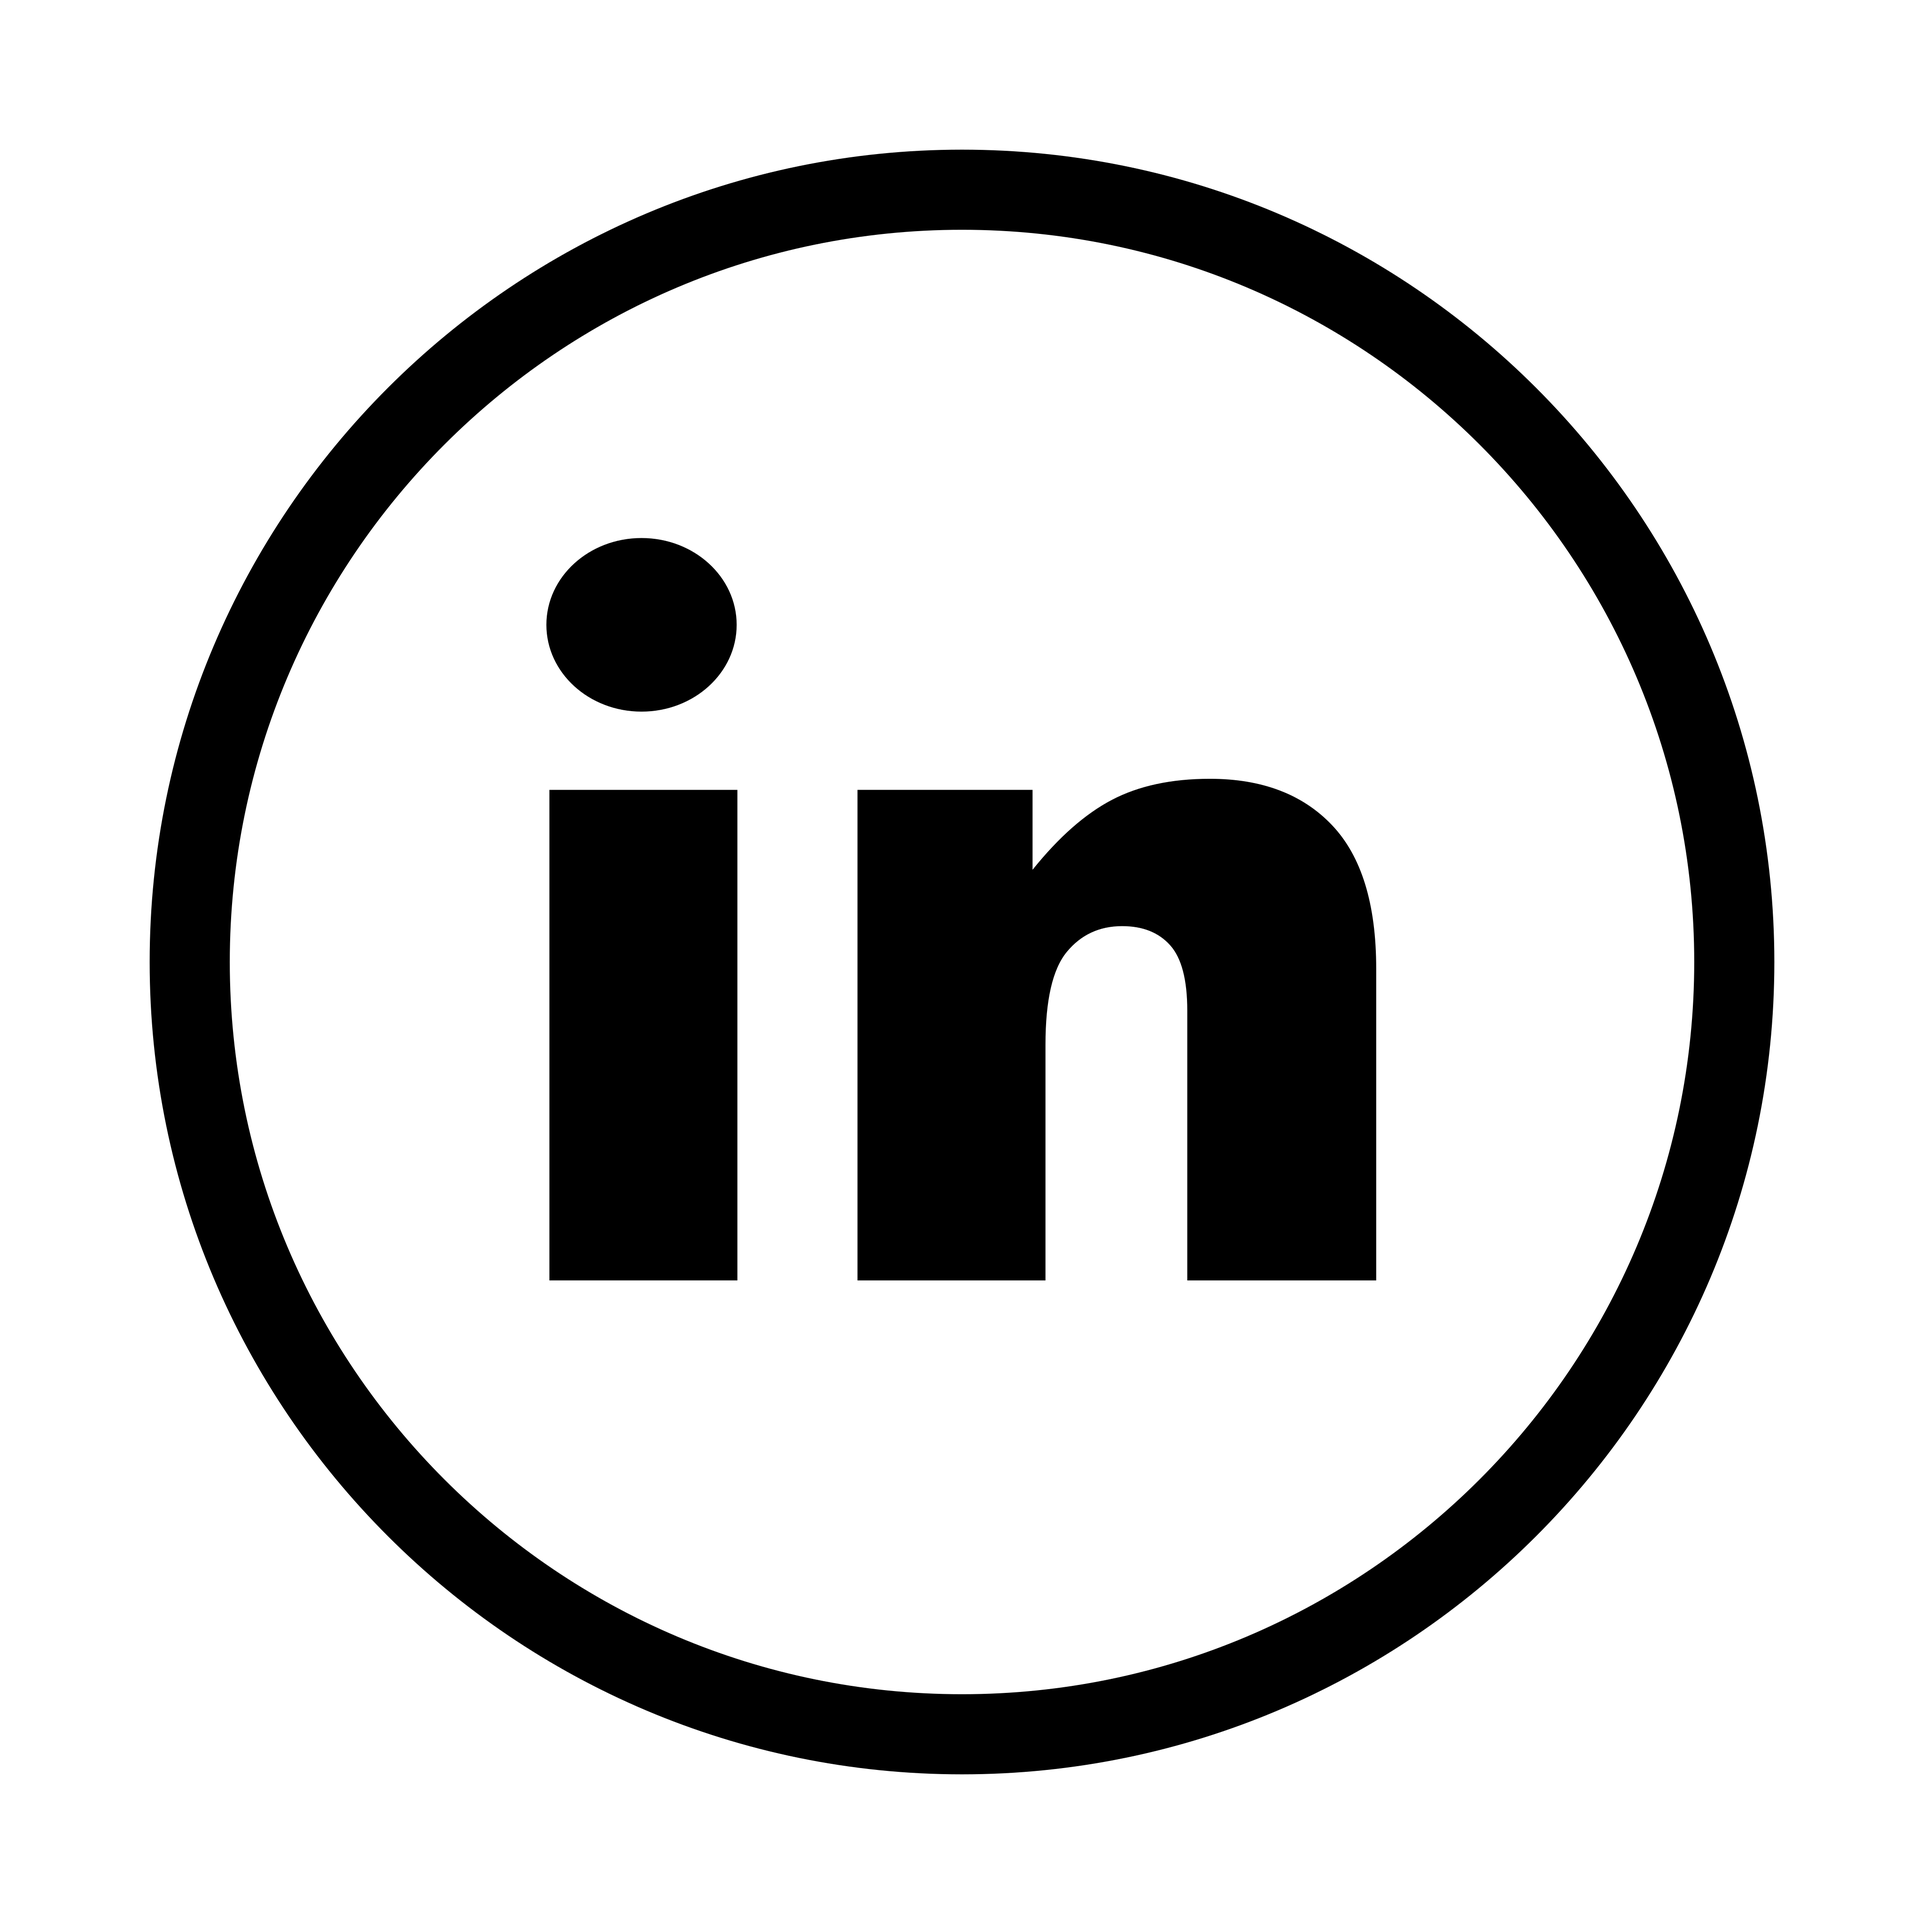
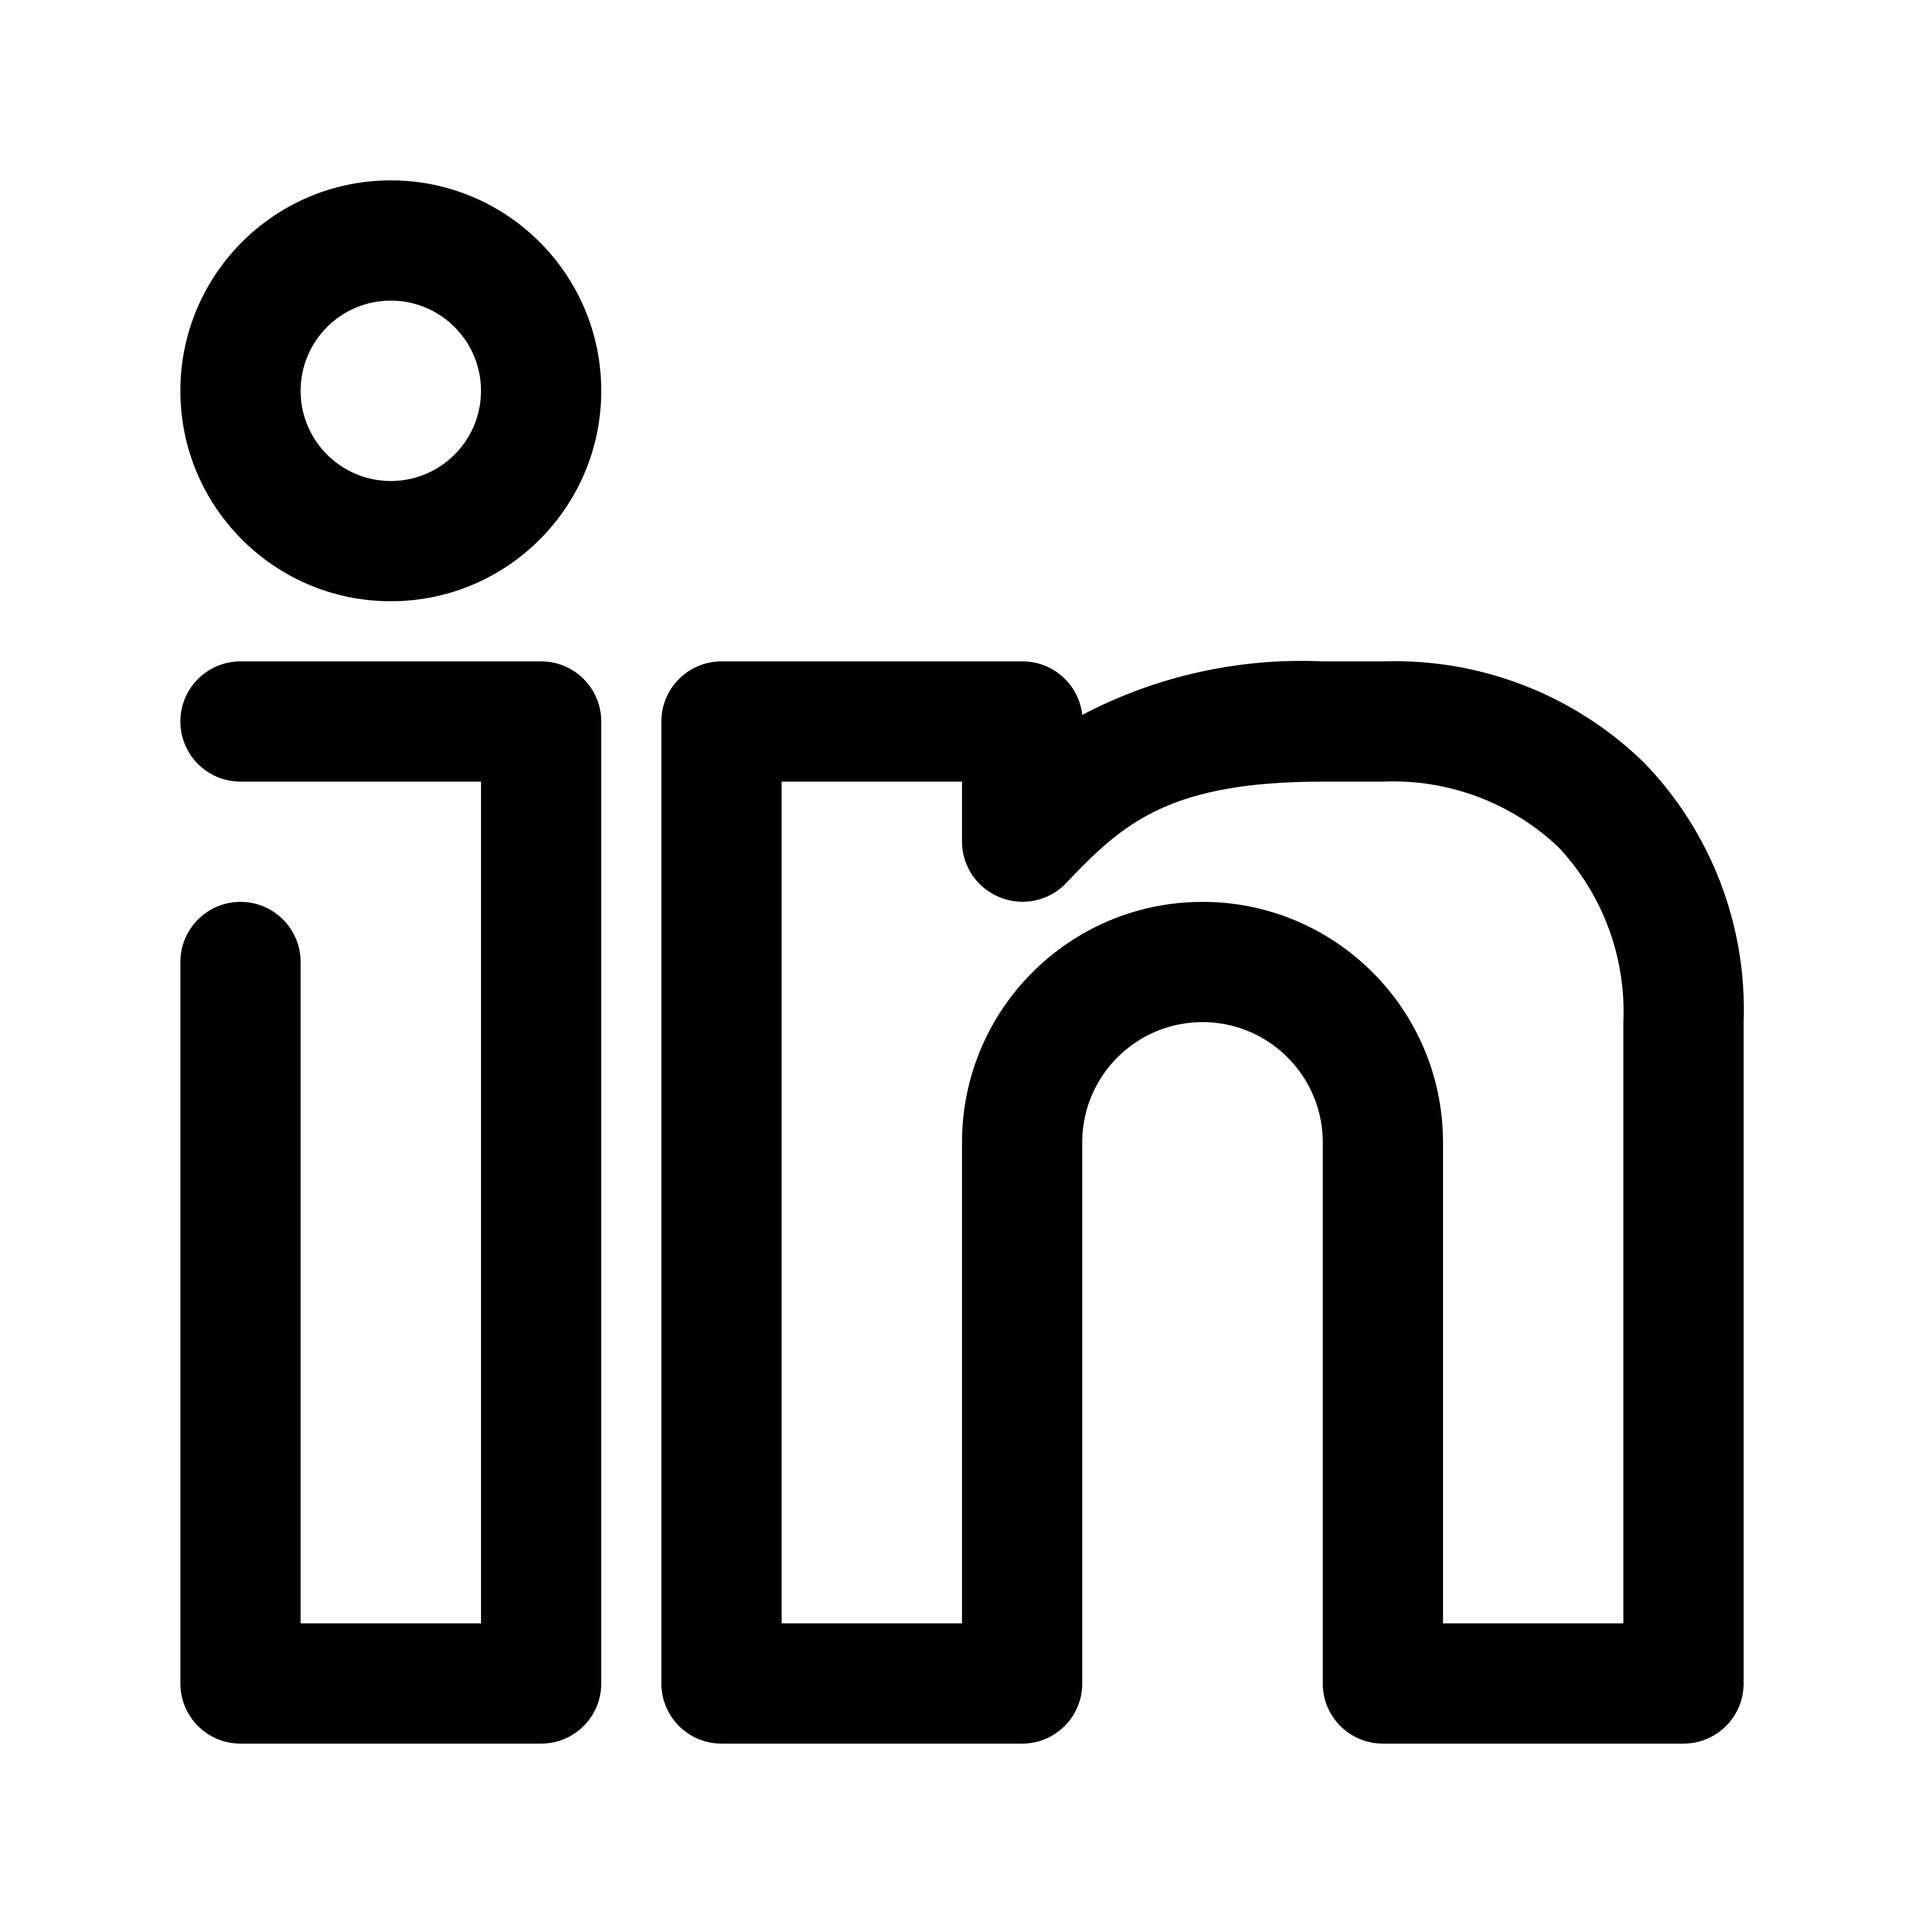
added media query for larger screen display. Updated social assets. Cleaned up CSS classes.

diff --git a/portfolio.html b/portfolio.html
@@ -33,11 +33,12 @@
 			 I'm a climber, gardener, mountain biker, and scuba diver in my free time. I recently hiked the three peaks and am mid-way through landscaping my garden.
 		 </p>
 	 </section>
-	 <section class="container">
+	 <section>
 			 <h2 id="Projects" class="heading">
 				 Projects
 			 </h2>
-		 <div class="projects-container">
+			 <div class="projects-container">
+		 <div class="projects-card-container">
 			 <a href="https://codepen.io/SamBellDev/full/BajKVJK" target="_blank" rel="noopener noreferrer">
 			 <h3 class="heading">
 				 Ghost Fishing UK charity page
@@ -49,7 +50,7 @@
 					 I made the Ghost Fishing UK page to build my HTML and CSS skills whilst raising awareness for a charity I'm involved with. Ghost Fishing UK are a dedicated team of divers who commit their free time to cleaning the ocean. They are both educational and practical; the team conducts seminars to spread information about ghost fishing gear whilst also leading dives to remove ghost fishing gear in a safe and sustainable way.
 			 </p>
 		 </div>
-		 <div class="projects-container">
+		 <div class="projects-card-container">
 			 <a href="https://codepen.io/SamBellDev/full/oNbxypV" target="_blank" rel="noopener noreferrer">
 			 <h3 class="heading">
 				 ACME Labs feedback form
@@ -60,6 +61,7 @@
 				 As part of the freeCodeCamp curriculum I attempted to build a form which contained multiple input types. It was good fun but didn't include any back-end functionality.
 			 </p>
 		 </div>
+	 </div>
 	 </section>
  </main>	 
 	 <footer id="Contact me">

diff --git a/portfolio.css b/portfolio.css
@@ -40,7 +40,7 @@ header {
 	justify-content: space-around;
 }
 
-.title-container, .projects-container {
+.title-container, .projects-card-container {
 	display:flex;
 	flex-flow: column nowrap;
 	align-items: center;
@@ -60,6 +60,21 @@ header {
 }
 
 footer img {
-	width: 80px;
-	height : 80px;
+	width: 40px;
+	height : 40px;
+	border-radius: 0;
 }
+
+@media screen and (min-width: 1080px) {
+	 .projects-container {
+		 	 display: flex;
+			 flex-flow: row nowrap;
+			 justify-content: space-evenly;
+    
+  }
+  	 .projects-card-container {
+		 display: flex;
+		 flex-flow: column nowrap;
+		 width: 40%;
+  }
+} 
